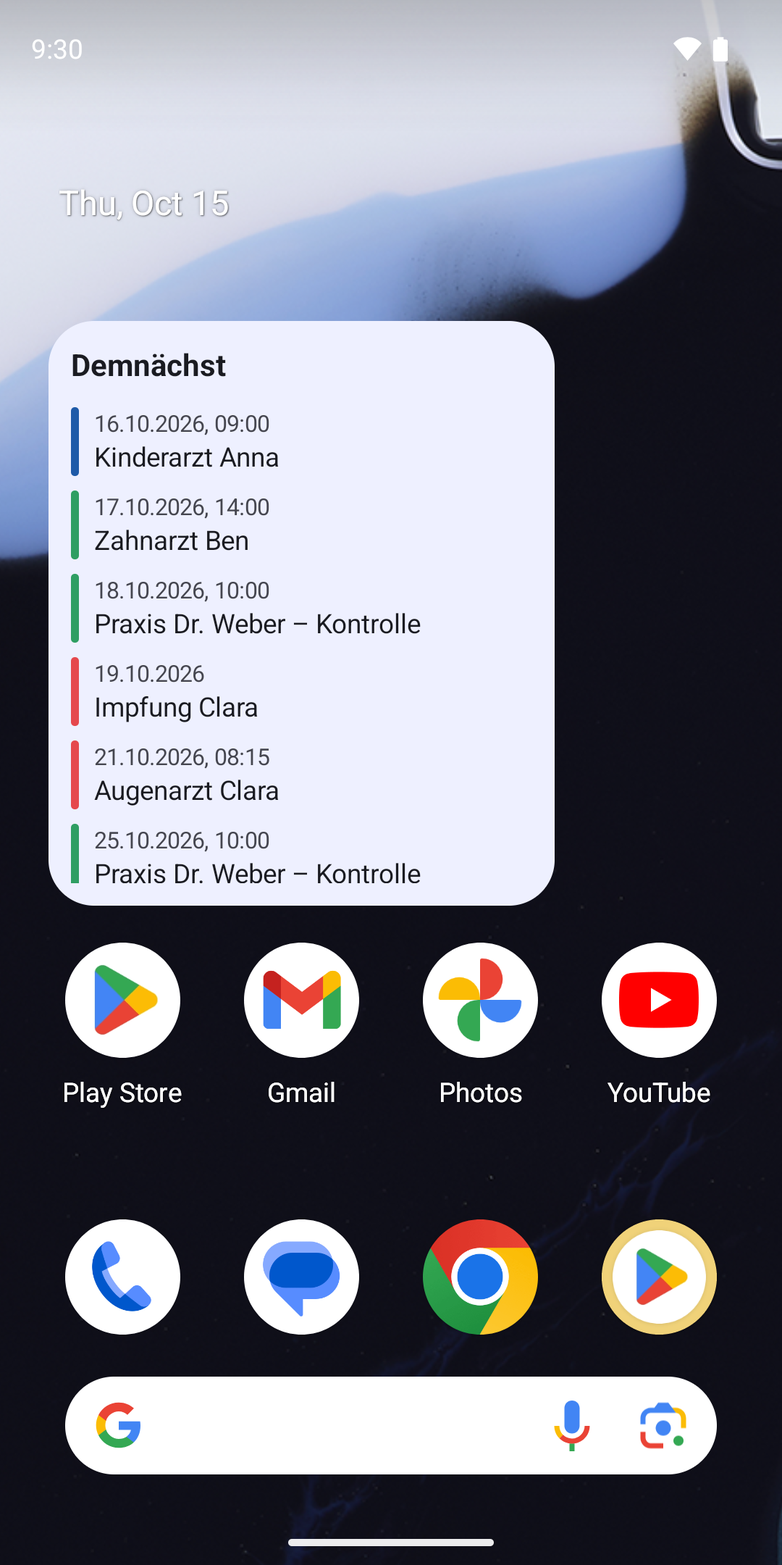
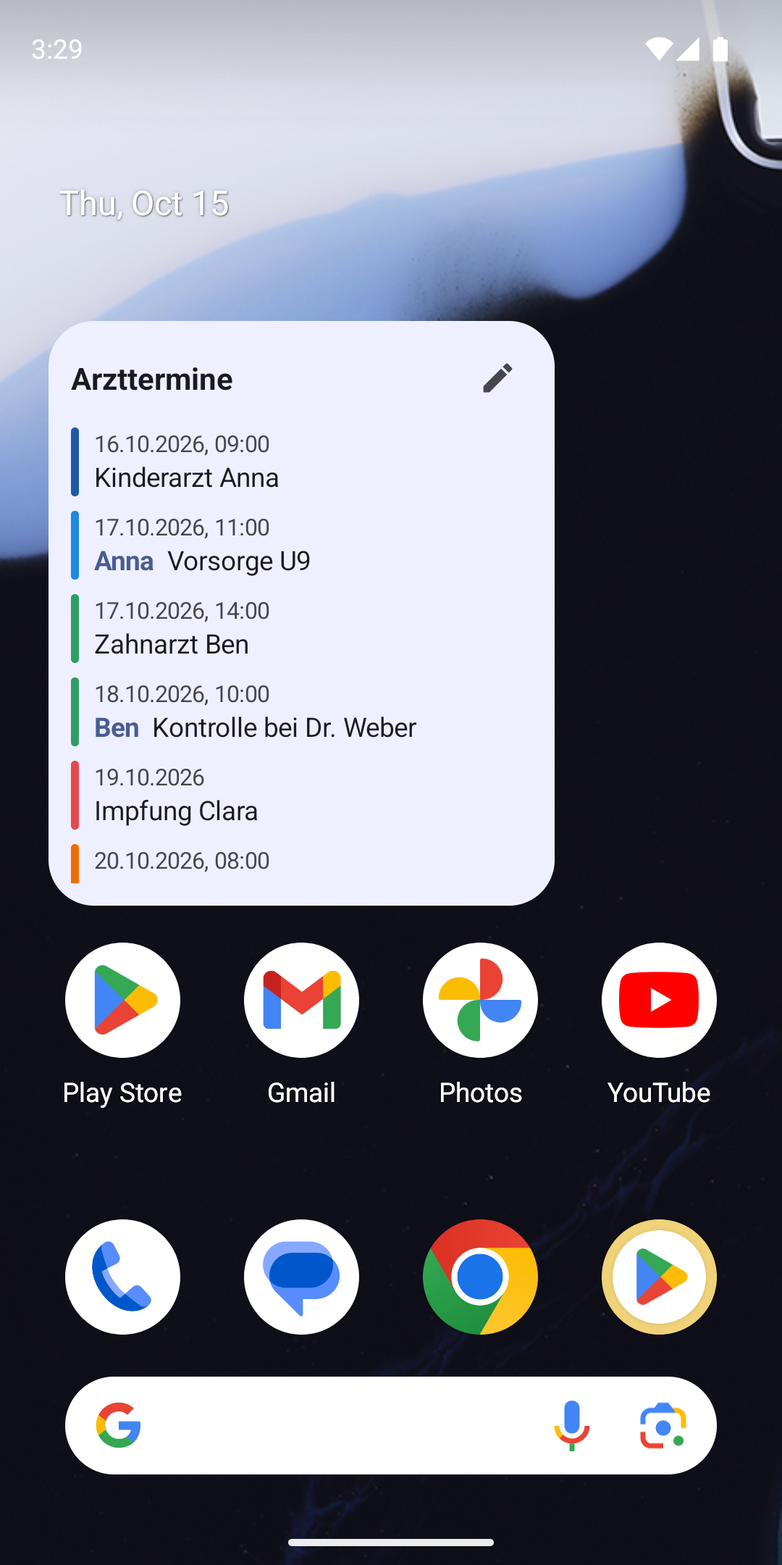
Release 0.2.0 with a user-facing README
- README rewritten as a non-technical showcase with screenshots, tester
  opt-in link and privacy summary; technical details moved to
  docs/DEVELOPMENT.md.
- New store screenshots (de-DE, en-US) showing the edit button, reminders
  and the reminder notification.
- Release notes in store/whatsnew/ are uploaded by the Play workflow.
- Widget and reminder dates use the app language also when formatted in a
  background process.
- versionName 0.2.0.

diff --git a/app/src/main/java/io/github/diddlik/calendarwidget/widgets/AgendaWidget.kt b/app/src/main/java/io/github/diddlik/calendarwidget/widgets/AgendaWidget.kt
@@ -194,7 +194,7 @@ private fun EventRow(context: Context, event: EventOccurrence, zone: ZoneId, use
         Spacer(GlanceModifier.width(8.dp))
         Column(modifier = GlanceModifier.fillMaxHeight()) {
             Text(
-                text = formatWhen(event, zone),
+                text = formatWhen(context, event, zone),
                 style = TextStyle(color = GlanceTheme.colors.onSurfaceVariant, fontSize = 12.sp),
                 maxLines = 1,
             )
@@ -225,10 +225,16 @@ private fun EventRow(context: Context, event: EventOccurrence, zone: ZoneId, use
     }
 }
 
-internal fun formatWhen(event: EventOccurrence, zone: ZoneId): String {
+/**
+ * Formats in the app's language: a process started in the background keeps the system default
+ * locale, while [context] resources follow the per-app language.
+ */
+internal fun formatWhen(context: Context, event: EventOccurrence, zone: ZoneId): String {
+    val locale = context.resources.configuration.locales[0]
     val begin = event.begin.atZone(zone)
-    return if (event.allDay) begin.format(DateTimeFormatter.ofLocalizedDate(FormatStyle.MEDIUM))
-    else begin.format(DateTimeFormatter.ofLocalizedDateTime(FormatStyle.MEDIUM, FormatStyle.SHORT))
+    val formatter = if (event.allDay) DateTimeFormatter.ofLocalizedDate(FormatStyle.MEDIUM)
+    else DateTimeFormatter.ofLocalizedDateTime(FormatStyle.MEDIUM, FormatStyle.SHORT)
+    return begin.format(formatter.withLocale(locale))
 }
 
 /** Opens the occurrence in the user's calendar app; begin/end select the specific recurrence. */

diff --git a/app/src/main/java/io/github/diddlik/calendarwidget/widgets/ReminderNotifier.kt b/app/src/main/java/io/github/diddlik/calendarwidget/widgets/ReminderNotifier.kt
@@ -115,7 +115,7 @@ object ReminderNotifier {
         val notification = NotificationCompat.Builder(context, CHANNEL)
             .setSmallIcon(R.drawable.ic_notification)
             .setContentTitle(title)
-            .setContentText(formatWhen(event, zone))
+            .setContentText(formatWhen(context, event, zone))
             .setSubText(config.name.ifBlank { null })
             .setWhen(event.begin.toEpochMilli())
             .setCategory(NotificationCompat.CATEGORY_EVENT)

diff --git a/README.md b/README.md
@@ -1,74 +1,92 @@
-# Family Calendar Widget
+<p align="center">
+  <img src="store/graphics/feature-graphic-en-US.png" alt="Family Calendar Widget – your family's next events at a glance" width="720">
+</p>
 
-An Android-first, privacy-conscious, universal calendar widget builder.
+<h1 align="center">Family Calendar Widget</h1>
 
-## Vision
-Build multiple independently configurable home-screen calendar widgets. Each widget selects calendar sources, applies reusable filter profiles, and renders an agenda. First scenario: the next 5–10 family medical appointments across three synced calendars; the architecture is **not** limited to medical appointments.
+<p align="center">
+  <b>The appointments that matter, right on your home screen.</b><br>
+  Pick your family's calendars, choose what to show, and never miss the next doctor's visit again.
+</p>
 
-## Planned capabilities
-- Read calendars already synchronized with Android (Google Calendar, CalDAV/Nextcloud via a sync adapter, etc.).
-- Select one or more calendars per widget.
-- Reusable, composable filter rules (AND / OR / NOT).
-- Title/description/location text predicates, keyword inclusion/exclusion, date ranges, calendar membership and other supported fields.
-- Chronological, scrollable agenda, widget-specific themes and item counts.
-- Tap an event to open details; optional quick-create using the selected writable calendar (later milestone).
-- Optional reminder profiles and notifications (later milestone).
+<p align="center">
+  <a href="https://github.com/Diddlik/family-calender-widget/actions/workflows/android.yml"><img src="https://github.com/Diddlik/family-calender-widget/actions/workflows/android.yml/badge.svg" alt="Build"></a>
+  <img src="https://img.shields.io/badge/Android-8.0%2B-3DDC84?logo=android&logoColor=white" alt="Android 8.0+">
+  <img src="https://img.shields.io/badge/Google%20Play-closed%20testing-414141?logo=googleplay&logoColor=white" alt="Google Play closed testing">
+  <img src="https://img.shields.io/badge/privacy-no%20internet%20access-1E5AA8" alt="No internet access">
+  <a href="LICENSE"><img src="https://img.shields.io/badge/license-MIT-F2B134" alt="MIT License"></a>
+</p>
 
-## Status
-Milestone 0.1 (read-only agenda widget) in progress. See [requirements](docs/REQUIREMENTS.md), [architecture](docs/ARCHITECTURE.md), [roadmap](docs/ROADMAP.md) and [agent instructions](AGENTS.md).
+<p align="center">
+  <img src="store/graphics/screenshots/en-US/phone-1-widget.png" width="200" alt="Widget on the home screen">
+  <img src="store/graphics/screenshots/en-US/phone-2-widget-dark.png" width="200" alt="Widget in dark mode">
+  <img src="store/graphics/screenshots/en-US/phone-4-reminders.png" width="200" alt="Reminder settings">
+  <img src="store/graphics/screenshots/en-US/phone-5-reminder.png" width="200" alt="Reminder notification">
+</p>
 
-Implemented in 0.1:
-- `READ_CALENDAR` request with rationale, denial and "open settings" states.
-- Per-widget configuration: name shown as the widget header, calendars grouped by account (tree with select-all per account), title keywords (any match, optional medical preset), item count (1–25, default 10).
-- Optional naming convention per widget: titles written as `Keyword - Name Title` (for example `Arzt - Anna Vorsorge`) are filtered by the keyword and displayed as the name plus title; other titles are shown in full.
-- The app lists all placed widgets with an Edit action; on the home screen each widget has an edit (pencil) button in its header.
-- Optional reminders per widget (15 min to 1 week before; several can be combined), independent of the reminders stored in the calendar. All-day events count back from 09:00 on their day. Notifications show the event title only when the device is unlocked.
-- Pure Kotlin filter engine: versioned JSON tree with ALL / ANY / NOT, calendar, text, time and all-day predicates.
-- Agenda read from `CalendarContract.Instances` (recurrences expanded) over the next 366 days; cancelled, declined, finished and duplicate occurrences are dropped; stable chronological order.
-- Resizable, scrollable Glance home-screen widget; tapping an event opens it in the calendar app, tapping the header reconfigures the widget.
-- English and German UI, following the system language; on Android 13+ the language can also be chosen per app.
+---
 
-Deferred: visual nested rule editor and named reusable filter profiles (0.2), calendar writes (0.3), reminder profiles beyond per-widget offsets (0.4).
+## ✨ Why
 
-## Build and test
-Requirements: JDK 17 or newer (Android Studio's bundled JBR 21 works), Android SDK with platform 37. Gradle is provided by the wrapper.
+Family calendars get busy: school, sports, birthdays, and somewhere in between the appointments you really can't miss. **Family Calendar Widget** turns the calendars already on your phone into small, focused lists on your home screen. One widget for the kids' doctor visits, another for school, one more for the whole family. Each shows only what you asked for.
 
-| Task | Command |
+## 🧩 What it does
+
+| | |
 | --- | --- |
-| Build debug APK | `./gradlew assembleDebug` |
-| Unit tests | `./gradlew testDebugUnitTest` |
-| Lint | `./gradlew lintDebug` |
-| Install on a device | `./gradlew installDebug` |
-| Signed release bundle | `./gradlew bundleRelease` (signing via environment variables, see [release guide](docs/RELEASE.md)) |
+| 📅 **Your calendars, combined** | Works with every calendar on your phone (Google, Nextcloud and more). Choose several per widget, neatly grouped by account. |
+| 🔎 **Only what matters** | Show events whose title contains your keywords, or use the ready-made preset for doctor's appointments. |
+| 🧱 **As many widgets as you like** | Every widget has its own name, calendars, keywords and length. |
+| 👤 **Who is it for?** | Write titles like `Doctor - Anna Check-up` and the widget shows **Anna** with *Check-up*: the keyword is for filtering, the name stands out. |
+| 🔔 **Reminders, your way** | Get notified 15 minutes to a week ahead, separately for each widget and independent of the reminders in your calendar. |
+| ✏ **Edit in place** | Tap the pencil on the widget to change it, or manage all widgets in the app. |
+| ⚡ **Always up to date** | Changes in your calendar show up within seconds; past events disappear on their own. |
+| 🌗 **Feels at home** | Resizable, light and dark mode, English and German. |
 
-Versions: AGP 9.4.1, Gradle 9.8.1, Kotlin 2.4.21, compileSdk/targetSdk 37, minSdk 26. All library versions are pinned in `gradle/libs.versions.toml`.
+## 🚀 Get started in three steps
 
-## Permissions and platform limits
-- `READ_CALENDAR`; `POST_NOTIFICATIONS` (Android 13+, requested only when a reminder is turned on); `SCHEDULE_EXACT_ALARM` (optional, user-granted "Alarms & reminders"; without it reminders may arrive up to 10 minutes late). No `INTERNET`, no `WRITE_CALENDAR`. Event content is read on demand and never stored; only calendar IDs, filters and widget settings are persisted (app-private storage).
-- Only calendars synced onto the device by an account or sync adapter are visible.
-- Refresh: calendar changes on the device trigger an update via a WorkManager content-URI trigger (a few seconds delay); time, timezone and locale changes update immediately; a 15-minute periodic job (the Android minimum) removes finished events and catches up missed reminders. Changes made elsewhere (for example on the web) appear once the account has synced them to the device. Android may delay background work further under battery saver or Doze, and a force stop pauses refresh and reminders until the app is opened again.
-- All-day events are shown on their local calendar day and remain visible until that day ends. Ongoing timed events stay visible until they end.
+1. **Install** the app and allow it to read your calendars.
+2. **Add the widget**: long-press your home screen → *Widgets* → *Family Calendar Widget*.
+3. **Choose** calendars, keywords and reminders, then tap *Save*. Done.
 
-## Manual device checklist
-1. Fresh install, open the app: rationale shown; deny, then deny again: "Open app settings" appears; grant in settings and return: granted state shown.
-2. Add the widget: configuration opens; no calendars selected disables Save; back cancels placement.
-3. Select three calendars, apply the medical preset, save: widget lists only matching events, soonest first, at most the chosen count.
-4. Add a second widget with other calendars or keywords: both widgets show their own results.
-5. Recurring event: each upcoming occurrence appears once with the right date.
-6. All-day event shows a date without time; timed events show date and time.
-7. Edit or add a matching event in the calendar app: widget updates within seconds to minutes.
-8. Wait until an event ends: it disappears within about 15 minutes.
-9. Change the timezone: times update.
-10. Tap an event: the calendar app opens that occurrence. Tap the pencil in the header: configuration reopens with saved values.
-11. Revoke calendar permission: widget shows "Tap to allow calendar access".
-12. Resize the widget: the list scrolls and nothing is clipped. Check light and dark mode.
-13. Turn on a 15-minute reminder (allow notifications), add a matching event starting in 16 minutes: a notification appears about a minute later; the lock screen shows only "Upcoming event". Without "Alarms & reminders" the configuration shows a hint and the reminder may come up to 10 minutes late.
+<p align="center">
+  <img src="store/graphics/screenshots/en-US/phone-3-configure.png" width="200" alt="Choosing calendars">
+  <img src="store/graphics/screenshots/en-US/phone-6-app.png" width="200" alt="All widgets in the app">
+</p>
 
-## Contributing
-Use feature branches and pull requests; keep calendar event content on-device. Do not commit real calendar data, screenshots containing sensitive events, credentials, or signing keys.
+## 🔒 Private by design
 
-## Privacy and license
-Privacy policy: https://diddlik.github.io/family-calender-widget/privacy/ (source: `docs/privacy/index.html`). Licensed under the [MIT License](LICENSE).
+- **No internet access at all.** The app cannot send your data anywhere.
+- **No ads, no tracking, no analytics.**
+- Events are read on your phone when needed and never stored by the app.
+- Reminders on the lock screen only say *"Upcoming event"*, never the title.
 
-## Repository
-https://github.com/Diddlik/family-calender-widget
+Read the full [privacy policy](https://diddlik.github.io/family-calender-widget/privacy/).
+
+## 📲 Get the app
+
+Family Calendar Widget is in **closed testing on Google Play**. Android 8.0 or newer is required.
+
+<p align="center">
+  <a href="https://play.google.com/apps/testing/io.github.diddlik.calendarwidget"><img src="https://img.shields.io/badge/Join%20the%20test-on%20Google%20Play-1E5AA8?style=for-the-badge&logo=googleplay&logoColor=white" alt="Join the test on Google Play"></a>
+</p>
+
+1. **Ask to join:** send the email address of your Google account to [digiwo@gmail.com](mailto:digiwo@gmail.com?subject=Family%20Calendar%20Widget%20tester). Only invited accounts can take part in the test.
+2. **Accept the invitation:** open the [tester link](https://play.google.com/apps/testing/io.github.diddlik.calendarwidget) with that account and tap *Become a tester*.
+3. **Install** the app from Google Play. Updates arrive automatically like for any other app.
+
+## 🗺 What's next
+
+- 🎨 Themes, colours and layouts per widget
+- 🧠 A visual editor for advanced filters and reusable filter profiles
+- ➕ Quick-add of new events from the widget
+
+See the [roadmap](docs/ROADMAP.md) for details.
+
+## 🛠 For developers
+
+Built with Kotlin, Jetpack Compose and Jetpack Glance. Build commands, permissions, platform limits and the test checklist are in [docs/DEVELOPMENT.md](docs/DEVELOPMENT.md); the release pipeline is described in [docs/RELEASE.md](docs/RELEASE.md).
+
+## 📄 License
+
+[MIT](LICENSE) © 2026 Pavel Eremeev

diff --git a/docs/DEVELOPMENT.md b/docs/DEVELOPMENT.md
@@ -1,0 +1,58 @@
+# Development
+
+Technical details for contributors. The user-facing overview is in the [README](../README.md); architecture, requirements and roadmap are in this folder, release setup in [RELEASE.md](RELEASE.md).
+
+## Build and test
+
+Requirements: JDK 17 or newer (Android Studio's bundled JBR 21 works), Android SDK with platform 37. Gradle is provided by the wrapper.
+
+| Task | Command |
+| --- | --- |
+| Build debug APK | `./gradlew assembleDebug` |
+| Unit tests | `./gradlew testDebugUnitTest` |
+| Lint | `./gradlew lintDebug` |
+| Install on a device | `./gradlew installDebug` |
+| Signed release bundle | `./gradlew bundleRelease` (signing via environment variables, see [RELEASE.md](RELEASE.md)) |
+
+Versions: AGP 9.4.1, Gradle 9.8.1, Kotlin 2.4.21, compileSdk/targetSdk 37, minSdk 26. All library versions are pinned in `gradle/libs.versions.toml`. The app version (`versionName`) lives in `app/build.gradle.kts`; CI sets `versionCode` to the run number.
+
+## What is implemented
+
+- `READ_CALENDAR` request with rationale, denial and "open settings" states.
+- Per-widget configuration: name shown as the widget header, calendars grouped by account (tree with select-all per account), title keywords (any match, optional medical preset), item count (1–25, default 10).
+- Optional naming convention per widget: titles written as `Keyword - Name Title` (for example `Arzt - Anna Vorsorge`) are filtered by the keyword and displayed as the name plus title; other titles are shown in full. The name is the first word after the separator.
+- The app lists all placed widgets with an Edit action; on the home screen each widget has an edit (pencil) button in its header.
+- Optional reminders per widget (15 min to 1 week before; several can be combined), independent of the reminders stored in the calendar. All-day events count back from 09:00 on their day. Notifications show the event title only when the device is unlocked.
+- Pure Kotlin filter engine: versioned JSON tree with ALL / ANY / NOT, calendar, text, time and all-day predicates.
+- Agenda read from `CalendarContract.Instances` (recurrences expanded) over the next 366 days; cancelled, declined, finished and duplicate occurrences are dropped; stable chronological order.
+- Resizable, scrollable Glance home-screen widget; tapping an event opens it in the calendar app.
+- English and German UI, following the system language; on Android 13+ the language can also be chosen per app. Dates use the app language, also when formatted in the background.
+
+Deferred: visual nested rule editor and named reusable filter profiles (0.2), calendar writes (0.3), reminder profiles beyond per-widget offsets (0.4).
+
+## Permissions and platform limits
+
+- `READ_CALENDAR`; `POST_NOTIFICATIONS` (Android 13+, requested only when a reminder is turned on); `SCHEDULE_EXACT_ALARM` (optional, user-granted "Alarms & reminders"; without it reminders may arrive up to 10 minutes late). No `INTERNET`, no `WRITE_CALENDAR`. Event content is read on demand and never stored; only calendar IDs, filters and widget settings are persisted (app-private storage).
+- Only calendars synced onto the device by an account or sync adapter are visible.
+- Refresh: calendar changes on the device trigger an update via a WorkManager content-URI trigger (a few seconds delay); time, timezone and locale changes update immediately; a 15-minute periodic job (the Android minimum) removes finished events and catches up missed reminders. Changes made elsewhere (for example on the web) appear once the account has synced them to the device. Android may delay background work further under battery saver or Doze, and a force stop pauses refresh and reminders until the app is opened again.
+- All-day events are shown on their local calendar day and remain visible until that day ends. Ongoing timed events stay visible until they end.
+
+## Manual device checklist
+
+1. Fresh install, open the app: rationale shown; deny, then deny again: "Open app settings" appears; grant in settings and return: granted state shown.
+2. Add the widget: configuration opens; no calendars selected disables Save; back cancels placement.
+3. Select three calendars, apply the medical preset, save: widget lists only matching events, soonest first, at most the chosen count.
+4. Add a second widget with other calendars or keywords: both widgets show their own results.
+5. Recurring event: each upcoming occurrence appears once with the right date.
+6. All-day event shows a date without time; timed events show date and time.
+7. Edit or add a matching event in the calendar app: widget updates within seconds to minutes.
+8. Wait until an event ends: it disappears within about 15 minutes.
+9. Change the timezone: times update.
+10. Tap an event: the calendar app opens that occurrence. Tap the pencil in the header: configuration reopens with saved values.
+11. Revoke calendar permission: widget shows "Tap to allow calendar access".
+12. Resize the widget: the list scrolls and nothing is clipped. Check light and dark mode.
+13. Turn on a 15-minute reminder (allow notifications), add a matching event starting in 16 minutes: a notification appears about a minute later; the lock screen shows only "Upcoming event". Without "Alarms & reminders" the configuration shows a hint and the reminder may come up to 10 minutes late.
+
+## Contributing
+
+Use feature branches and pull requests; keep calendar event content on-device. Do not commit real calendar data, screenshots containing sensitive events, credentials, or signing keys. Agent and project rules: [AGENTS.md](../AGENTS.md).

diff --git a/AGENTS.md b/AGENTS.md
@@ -106,10 +106,10 @@ Design:
 
 ## Project facts
 
-- Purpose and scope: universal Android calendar widget builder, not a hardcoded medical-appointments app. The first preset covers 3 family calendars filtered by title for medical visits; the core must support arbitrary calendar widgets. Read `README.md`, `docs/REQUIREMENTS.md`, `docs/ARCHITECTURE.md`, and `docs/ROADMAP.md` before architectural decisions. Current milestone: 0.1 (see `docs/ROADMAP.md`).
+- Purpose and scope: universal Android calendar widget builder, not a hardcoded medical-appointments app. The first preset covers 3 family calendars filtered by title for medical visits; the core must support arbitrary calendar widgets. Read `README.md`, `docs/DEVELOPMENT.md`, `docs/REQUIREMENTS.md`, `docs/ARCHITECTURE.md`, and `docs/ROADMAP.md` before architectural decisions. Current version: 0.2.0 (see `docs/ROADMAP.md`).
 - Primary languages and runtimes: Kotlin 2.4, single `:app` module, AGP 9.4 (built-in Kotlin, no `kotlin-android` plugin), Gradle 9.8 wrapper, compileSdk/targetSdk 37, minSdk 26. Versions are pinned in `gradle/libs.versions.toml`.
 - Platform-specific constraints: on-device only; no remote service, OAuth flow, or `INTERNET` permission in the initial version. Reminders use `POST_NOTIFICATIONS` and the user-granted `SCHEDULE_EXACT_ALARM` with an inexact fallback; do not add `USE_EXACT_ALARM` (restricted by Play policy). Refresh widgets within OS background limits; do not promise immediate updates. Check lint `NewApi` findings: `java.time` APIs newer than API 26 are not available without desugaring.
-- GUI toolkit, update mechanism, and distribution: Jetpack Compose (Material 3) for app UI; Jetpack Glance for the widget. UI strings live in `values/strings.xml` (English) and `values-de/strings.xml` (German); add every new string to both, lint fails on missing translations. Distribution and updates: Google Play closed testing (Alpha, API track `alpha`); every push to `main` uploads a signed bundle via `.github/workflows/play-internal.yml` (setup in `docs/RELEASE.md`). Play Store updates replace an in-app updater, so the app needs no `INTERNET` permission. Application ID `io.github.diddlik.calendarwidget` is final. License: MIT (`LICENSE`).
+- GUI toolkit, update mechanism, and distribution: Jetpack Compose (Material 3) for app UI; Jetpack Glance for the widget. UI strings live in `values/strings.xml` (English) and `values-de/strings.xml` (German); add every new string to both, lint fails on missing translations. Distribution and updates: Google Play closed testing (Alpha, API track `alpha`); every push to `main` uploads a signed bundle with the release notes from `store/whatsnew/` via `.github/workflows/play-internal.yml` (setup in `docs/RELEASE.md`). The README is user-facing and non-technical; technical details belong in `docs/DEVELOPMENT.md`. Play Store updates replace an in-app updater, so the app needs no `INTERNET` permission. Application ID `io.github.diddlik.calendarwidget` is final. License: MIT (`LICENSE`).
 - Build command: `./gradlew assembleDebug`
 - Test command: `./gradlew testDebugUnitTest`
 - Lint and format command: `./gradlew lintDebug` (no formatter configured).

diff --git a/docs/RELEASE.md b/docs/RELEASE.md
@@ -58,3 +58,7 @@ While the app has never been reviewed, Google Play accepts only **draft** releas
 Testers accept the opt-in link from Closed testing → Alpha → Testers ("Copy link") once, then install and update the app through the Play Store like any other app.
 
 The workflow filename and concurrency group remain unchanged to preserve run-number version codes and serialize uploads with earlier internal-testing runs. The initial manual upload can still use internal testing; subsequent CI uploads target Alpha. Closed-test updates may require Google review before testers receive them.
+
+## Release notes and versions
+
+Release notes for each upload come from `store/whatsnew/whatsnew-<locale>` (max. 500 characters per language). For a user-visible release, raise `versionName` in `app/build.gradle.kts` and update both files in the same change. The tester opt-in link is `https://play.google.com/apps/testing/io.github.diddlik.calendarwidget`; only accounts on the tester list can join.

diff --git a/store/README.md b/store/README.md
@@ -6,6 +6,7 @@
 | Feature graphic | `graphics/feature-graphic-de-DE.png`, `graphics/feature-graphic-en-US.png` | 1024 × 500 PNG/JPEG, no alpha |
 | Phone screenshots | `graphics/screenshots/de-DE/`, `graphics/screenshots/en-US/` | 2–8 images per language, 1080 × 2160 (max. aspect ratio 2:1) |
 | Listing texts | `listing/de-DE.md`, `listing/en-US.md` | name ≤ 30, short ≤ 80, full ≤ 4000 characters |
+| Release notes | `whatsnew/whatsnew-de-DE`, `whatsnew/whatsnew-en-US` | ≤ 500 characters; uploaded by the pipeline |
 
 Screenshots were taken on an emulator with synthetic calendars only (German ones via `adb shell cmd locale set-app-locales <package> --locales de-DE`). Never use real family events.
 

diff --git a/store/listing/de-DE.md b/store/listing/de-DE.md
@@ -32,6 +32,6 @@ DATENSCHUTZ
 
 Open Source unter MIT-Lizenz: https://github.com/Diddlik/family-calender-widget
 
-## Versionshinweise 0.1.0 (max. 500 Zeichen)
+## Versionshinweise
 
-Erste Testversion: Agenda-Widget mit Kalenderauswahl, Stichwortfilter, Vorlage für Arzttermine und automatischer Aktualisierung.
+Stehen in `store/whatsnew/whatsnew-de-DE` und werden von der Pipeline mit jedem Release hochgeladen (max. 500 Zeichen).

diff --git a/store/listing/en-US.md b/store/listing/en-US.md
@@ -32,6 +32,6 @@ PRIVACY
 
 Open source under the MIT License: https://github.com/Diddlik/family-calender-widget
 
-## Release notes 0.1.0 (max. 500 characters)
+## Release notes
 
-First test release: agenda widget with calendar selection, keyword filter, medical appointments preset and automatic refresh.
+Kept in `store/whatsnew/whatsnew-en-US` and uploaded by the pipeline with every release (max. 500 characters).
